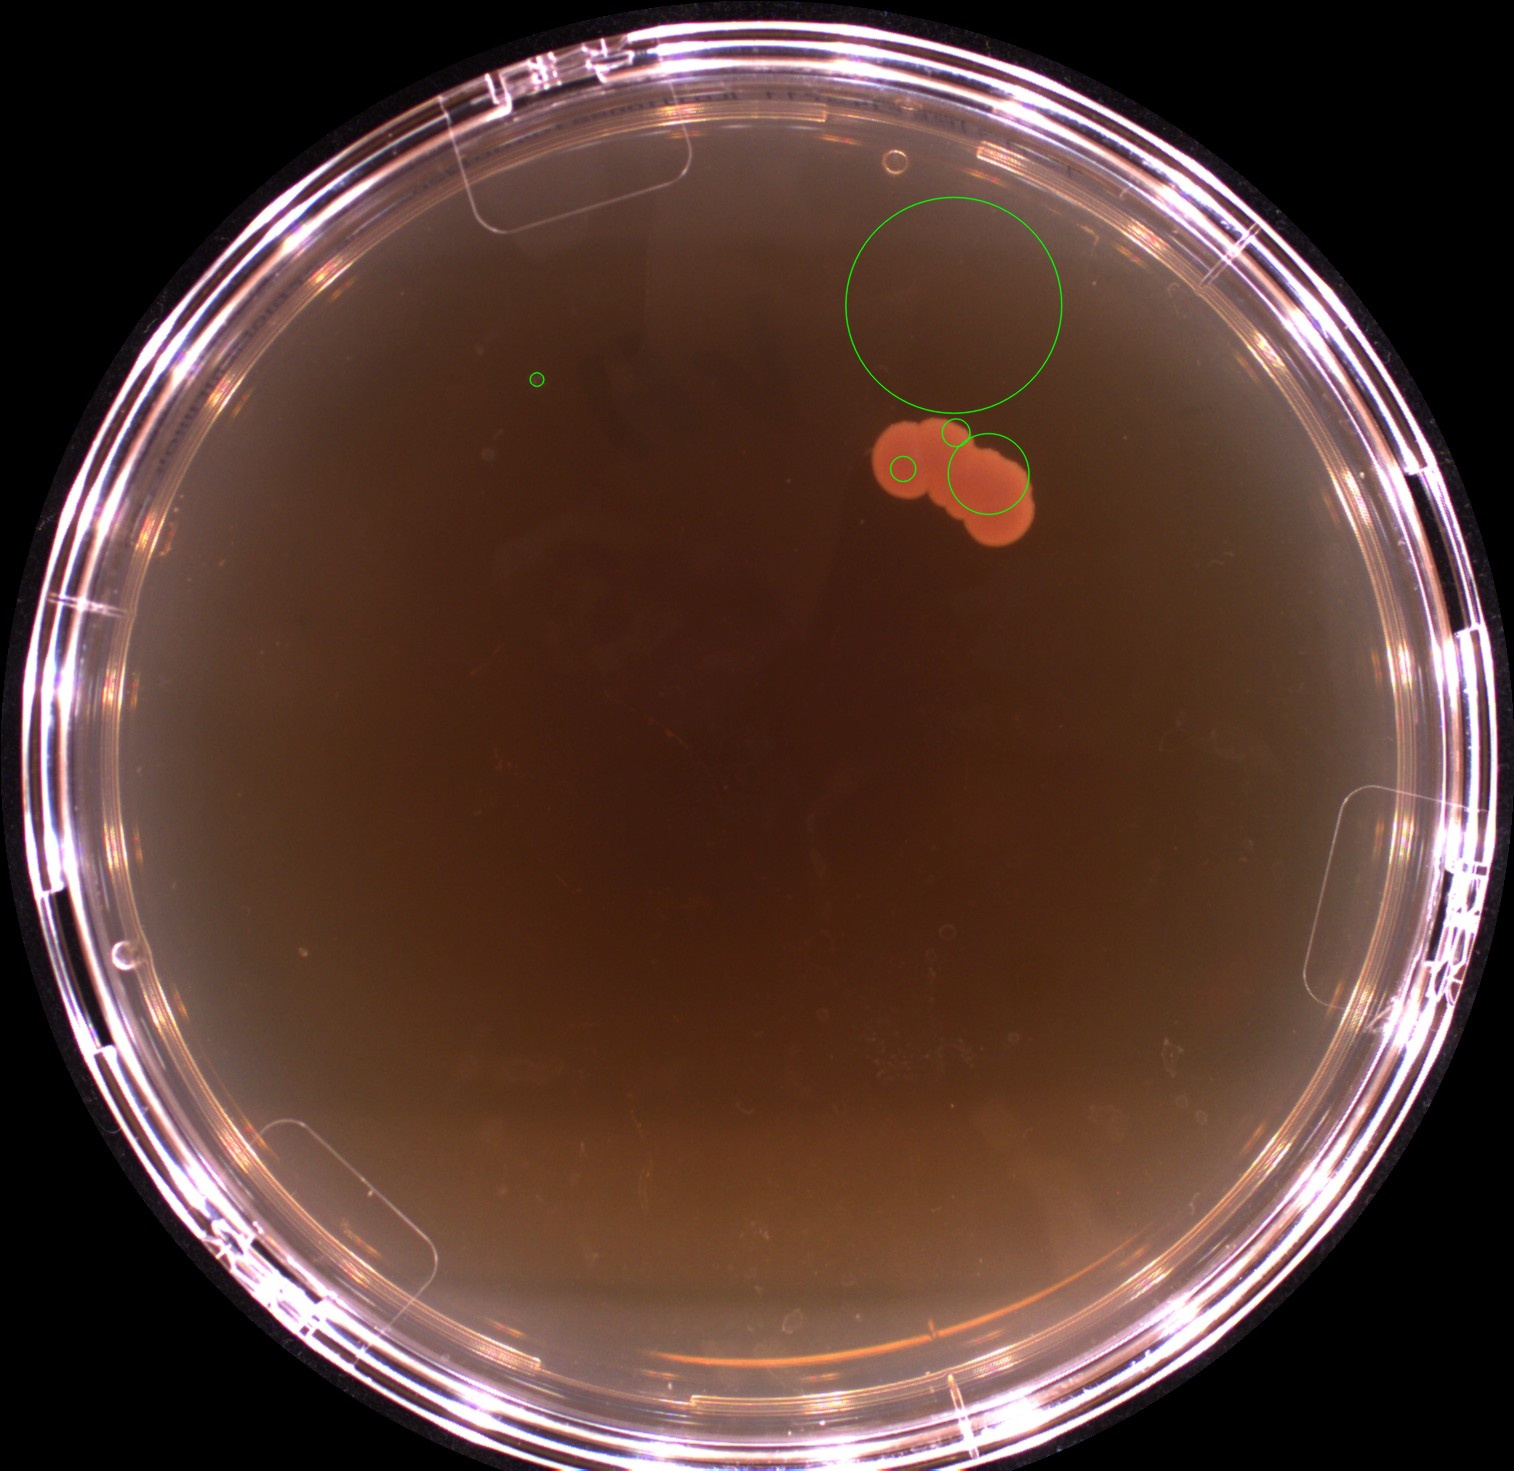
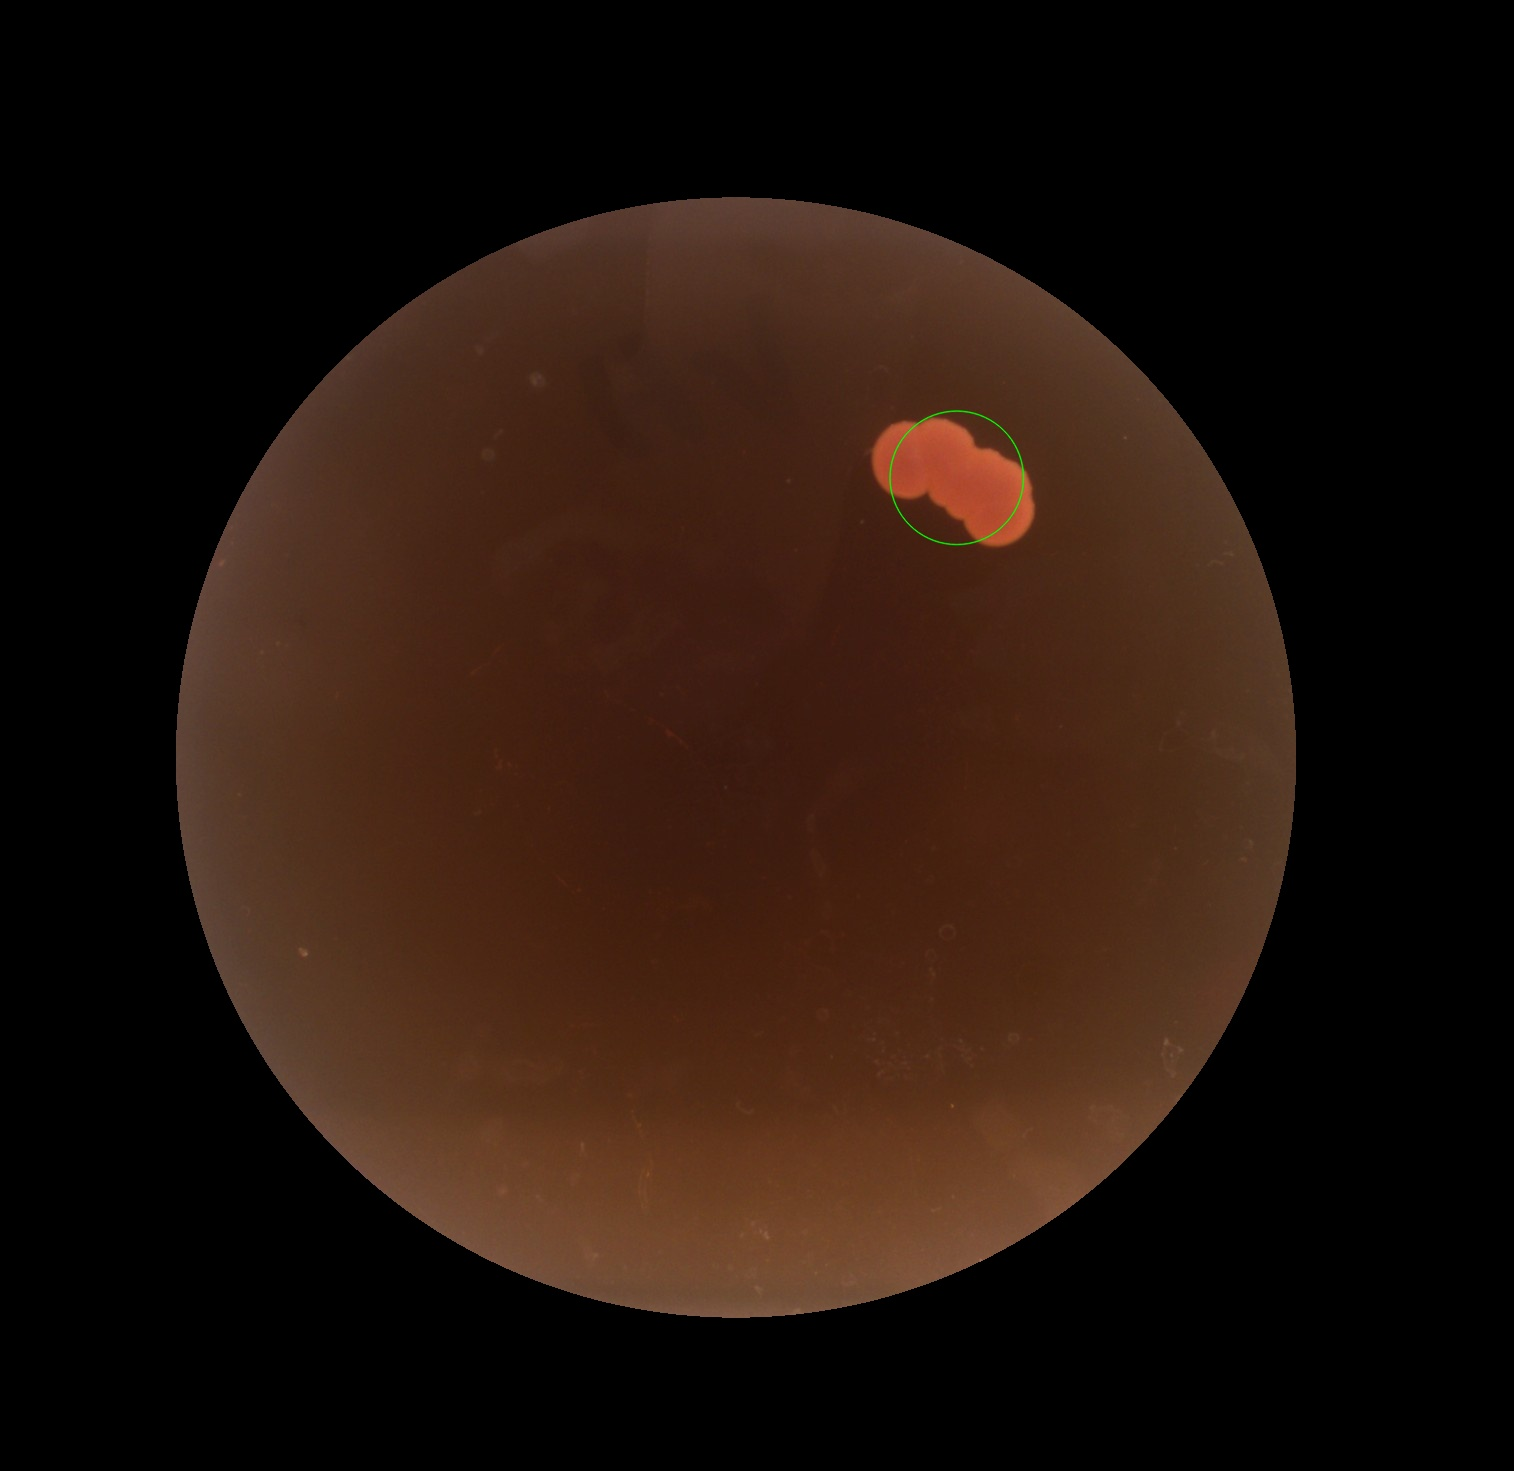
Reasonably good params

diff --git a/counter.py b/counter.py
@@ -37,7 +37,7 @@ def define_circular_ROI(image):
     Y = H/2
     X = W/2
 
-    radius= 0.34*W
+    radius= 0.37*W
     
     return Y,X,radius
 
@@ -48,33 +48,38 @@ T2 = 100
 
 # Setup SimpleBlobDetector parameters.
 params = cv2.SimpleBlobDetector_Params()
-
+ 
 #Change thresholds
-params.minThreshold = 50
+params.minThreshold = 40
 params.maxThreshold = 150
-params.thresholdStep = 2
-params.minDistBetweenBlobs = 10
+params.thresholdStep = 3
+params.minDistBetweenBlobs = 5
+params.minRepeatability = 7
 
 
 # Filter by Area.
 params.filterByArea = True
-params.minArea = 100
+params.minArea = 250
+params.maxArea = 5000000
 
-# Filter by Circularity
-params.filterByCircularity = False
-params.minCircularity = 0.1
+# Filter by CircularityTrue
+params.filterByCircularity = True
+params.minCircularity = 0.25
+params.maxCircularity = 0.99
 
 # Filter by Convexity
-params.filterByConvexity = False
-#params.minConvexity = 0.87
+params.filterByConvexity = True
+params.minConvexity = 0.2
+params.maxConvexity = 0.99
 
 # Filter by Inertia
-params.filterByInertia = False
-#params.minInertiaRatio = 0.01
+params.filterByInertia = True
+params.minInertiaRatio = 0.05
+params.maxInertiaRatio = 0.99
 
 # Filter by Color
-params.filterByColor = False
-#params.minInertiaRatio = 0.01
+params.filterByColor = True
+params.blobColor = 255
 
 # Create a detector with the parameters
 detector = cv2.SimpleBlobDetector_create(params)
@@ -83,26 +88,19 @@ for file in file_names:
     #Read the image images
     img = cv2.imread(folder_path+'/'+file)
 
-    #Conver to grayscale
-    img_gray = cv2.cvtColor(img, cv2.COLOR_BGR2GRAY)
-
-    #Filter out dust and pepper
-    img_blur = cv2.medianBlur(img,7)
-
     #Define the center and the radius of the ROI
-    X_cent, Y_cent, Rad = define_circular_ROI(img_blur)
+    X_cent, Y_cent, Rad = define_circular_ROI(img)
 
     #Set everything outside of the ROI to 0
-    H,W = img_blur.shape[:2]
+    H,W = img.shape[:2]
     mask = create_circular_mask(H, W, (X_cent, Y_cent), Rad)
-    img_blur[~mask] = 0
+    img[~mask] = 0
 
 	# Detect blobs.
-    keypnts = detector.detect(img_blur)
+    keypnts = detector.detect(img)
     print('{} has {} blobs'.format(file.split('.')[0], len(keypnts)))
 
 	# Draw detected blobs as red circles.
-	# cv2.DRAW_MATCHES_FLAGS_DRAW_RICH_KEYPOINTS ensures the size of the circle corresponds to the size of blob
     im_with_keys = cv2.drawKeypoints(img, keypnts, np.array([]), (0,255,0), cv2.DRAW_MATCHES_FLAGS_DRAW_RICH_KEYPOINTS)
 	
     #Write the final image
